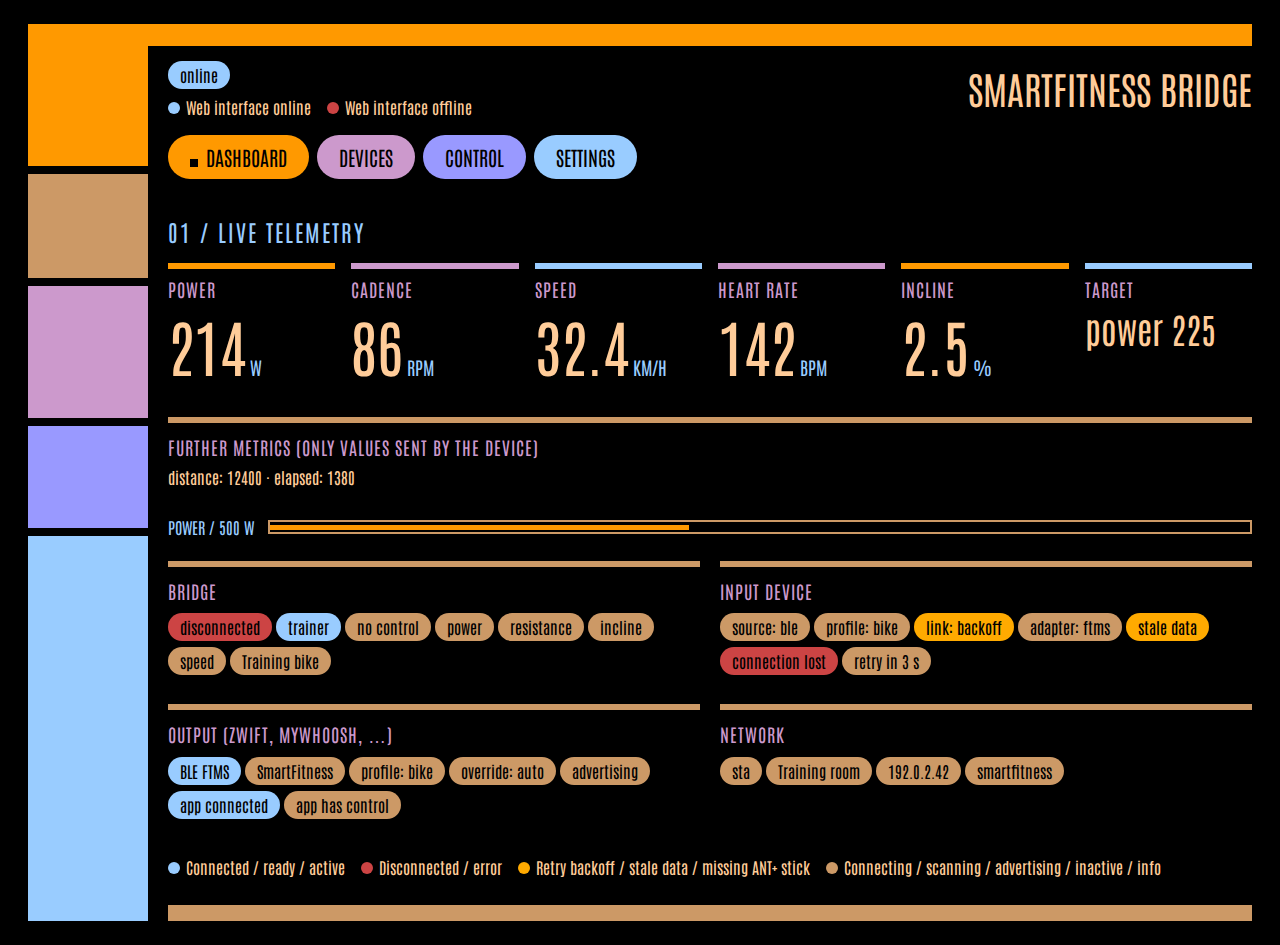
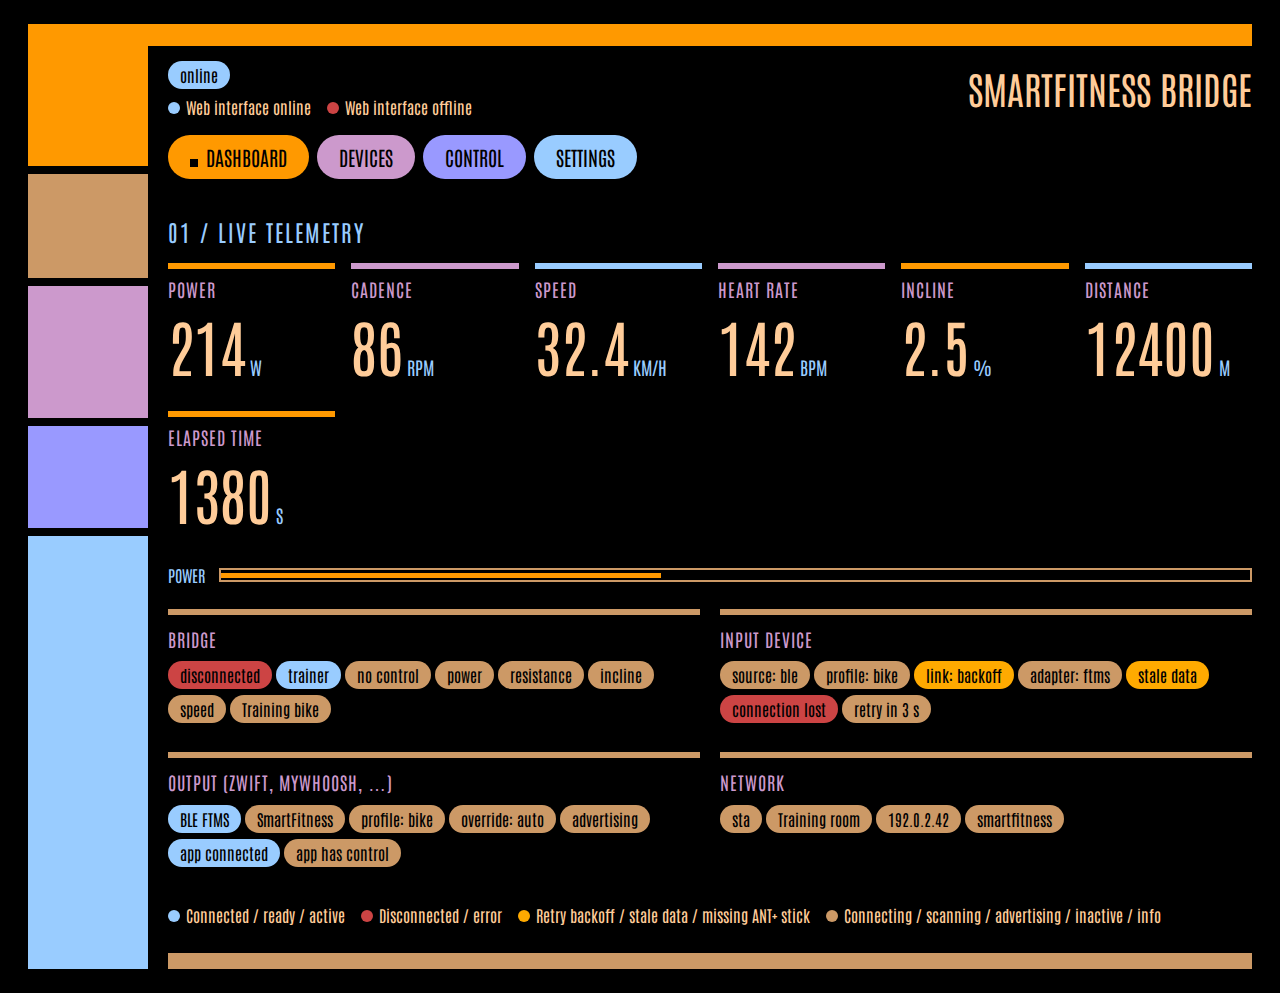
Show only available telemetry

Changed region(s): [[0.0, 0.0307, 1.0, 0.982]]

diff --git a/src/variants/web/assets/index.html b/src/variants/web/assets/index.html
@@ -18,9 +18,9 @@ nav button:nth-child(2){background:var(--muted)}nav button:nth-child(3){backgrou
 nav button.active{background:var(--acc)}nav button[aria-selected="true"]:before{content:"";display:inline-block;width:8px;height:8px;background:#000;margin-right:8px}
 main{max-width:1120px;margin:auto;border-bottom:16px solid var(--tan);padding-bottom:12px}
 section{display:none}section.active{display:block}section h2{margin:0 0 16px;font-size:23px;font-weight:400;letter-spacing:2px;text-transform:uppercase;color:var(--light)}
-.grid{display:grid;grid-template-columns:repeat(6,minmax(0,1fr));gap:16px;margin-bottom:22px}.status-grid{display:grid;grid-template-columns:repeat(2,minmax(0,1fr));gap:0 20px}
+.grid{display:grid;grid-template-columns:repeat(auto-fit,minmax(150px,1fr));gap:16px;margin-bottom:22px}.status-grid{display:grid;grid-template-columns:repeat(2,minmax(0,1fr));gap:0 20px}
 .card{background:#000;border-top:6px solid var(--tan);padding:12px 0;margin-bottom:14px;min-width:0}.metric{border-color:var(--acc);margin:0;padding-top:8px}.metric:nth-child(2n){border-color:var(--muted)}.metric:nth-child(3n){border-color:var(--light)}
-.metric .v{font-size:62px;line-height:1.2;font-weight:400;color:var(--fg)}.metric .u{color:var(--light);font-size:18px;text-transform:uppercase}.metric:last-child .v{font-size:35px}
+.metric .v{font-size:62px;line-height:1.2;font-weight:400;color:var(--fg)}.metric .u{color:var(--light);font-size:18px;text-transform:uppercase}
 .label{color:var(--muted);font-size:18px;text-transform:uppercase;letter-spacing:1px;margin-bottom:6px}
 .pill{display:inline-block;padding:3px 12px;border-radius:18px;background:var(--tan);color:#000;font-size:16px;margin:3px 4px 3px 0;overflow-wrap:anywhere}
 .pill.ok{background:var(--ok);color:#000}.pill.bad{background:var(--bad);color:#000}.pill.warn{background:var(--warn);color:#000}
@@ -45,9 +45,9 @@ td select{width:100%;font-size:16px}td button.b{padding:8px 14px}
 .gray{color:#888888}tr.gray td{color:#888888}tr.gray select,tr.gray button.b{opacity:.8}
 .status-legend{display:flex;flex-wrap:wrap;gap:6px 16px;list-style:none;padding:0;margin:8px 0 14px;font-size:16px}.status-legend li{display:flex;align-items:center;gap:6px}.status-legend .legend-swatch{display:inline-block;flex-shrink:0;width:12px;height:12px;padding:0;margin:0;border-radius:50%}.legend-swatch.gray{background:currentColor}.connection-status .status-legend{margin:4px 0 0}
 #ctl-result:not(:empty){display:inline-block;margin-top:10px;padding:6px 16px;border-radius:20px;background:var(--ok);color:#000}#ctl-result.bad{background:var(--bad)}
-.gauge{display:flex;align-items:center;gap:14px;margin:16px 0 22px;color:var(--light);text-transform:uppercase;font-size:16px}.gauge meter{flex:1;width:100%;height:14px;appearance:none;background:#000;border:2px solid var(--tan)}meter::-webkit-meter-bar{background:#000;border:0;border-radius:0}meter::-webkit-meter-optimum-value{background:var(--acc)}meter::-moz-meter-bar{background:var(--acc)}
-@media(max-width:1000px){.grid{grid-template-columns:repeat(3,minmax(0,1fr))}.status-grid{grid-template-columns:1fr}}
-@media(max-width:650px){body{padding:14px 14px 20px 36px;font-size:17px}.lcars-rail{left:14px;top:14px;bottom:14px;width:12px}header{border-top-width:14px;gap:8px;margin-bottom:18px;padding:10px 0}header:before{height:14px;top:-14px;width:10px;left:-10px}header h1{font-size:27px}header #conn{font-size:14px;padding:3px 9px}nav{gap:5px}nav button{flex:1;padding:7px 3px;font-size:16px;min-width:0}nav button[aria-selected="true"]:before{display:none}.grid{grid-template-columns:repeat(2,minmax(0,1fr));gap:12px}.metric .v{font-size:49px}.metric:last-child .v{font-size:28px}.label{font-size:16px}.pill{font-size:15px;padding:4px 10px}.row{gap:8px}.row label{min-width:0;flex-basis:100%}.row input:not([type="checkbox"]),.row select{width:100%}.card{padding-top:10px}table,tbody,tr,td{display:block}thead{display:none}tr{border-bottom:6px solid var(--muted);padding:12px 0}td{border:0;padding:4px 0}td[data-label]:before{content:attr(data-label) ": ";color:var(--muted)}td select{width:100%}#ctl-value{flex:1;width:auto;max-width:210px}.gauge{gap:8px;font-size:14px}section h2{font-size:20px;margin-bottom:12px}}
+.gauge{display:flex;align-items:center;gap:14px;margin:16px 0 22px;color:var(--light);text-transform:uppercase;font-size:16px}.gauge[hidden]{display:none}.gauge meter{flex:1;width:100%;height:14px;appearance:none;background:#000;border:2px solid var(--tan)}meter::-webkit-meter-bar{background:#000;border:0;border-radius:0}meter::-webkit-meter-optimum-value{background:var(--acc)}meter::-moz-meter-bar{background:var(--acc)}
+@media(max-width:1000px){.status-grid{grid-template-columns:1fr}}
+@media(max-width:650px){body{padding:14px 14px 20px 36px;font-size:17px}.lcars-rail{left:14px;top:14px;bottom:14px;width:12px}header{border-top-width:14px;gap:8px;margin-bottom:18px;padding:10px 0}header:before{height:14px;top:-14px;width:10px;left:-10px}header h1{font-size:27px}header #conn{font-size:14px;padding:3px 9px}nav{gap:5px}nav button{flex:1;padding:7px 3px;font-size:16px;min-width:0}nav button[aria-selected="true"]:before{display:none}.grid{grid-template-columns:repeat(auto-fit,minmax(130px,1fr));gap:12px}.metric .v{font-size:49px}.label{font-size:16px}.pill{font-size:15px;padding:4px 10px}.row{gap:8px}.row label{min-width:0;flex-basis:100%}.row input:not([type="checkbox"]),.row select{width:100%}.card{padding-top:10px}table,tbody,tr,td{display:block}thead{display:none}tr{border-bottom:6px solid var(--muted);padding:12px 0}td{border:0;padding:4px 0}td[data-label]:before{content:attr(data-label) ": ";color:var(--muted)}td select{width:100%}#ctl-value{flex:1;width:auto;max-width:210px}.gauge{gap:8px;font-size:14px}section h2{font-size:20px;margin-bottom:12px}}
 @media(prefers-reduced-motion:reduce){*,*:before,*:after{animation:none!important;transition:none!important;scroll-behavior:auto!important}}
 /* #ifdef DEBUG_WEB */
 #debug-output{display:block;width:100%;height:55vh;resize:vertical;background:var(--bg);color:var(--fg);border:2px solid var(--violet);padding:12px;font:14px/1.4 monospace;white-space:pre}
@@ -69,16 +69,8 @@ td select{width:100%;font-size:16px}td button.b{padding:8px 14px}
 <main>
 <section id="dash" class="active" role="tabpanel" aria-labelledby="tab-dash" tabindex="0">
  <h2>01 / Live telemetry</h2>
- <div class="grid">
-  <div class="card metric"><div class="label">Power</div><span class="v" id="m-power">–</span> <span class="u">W</span></div>
-  <div class="card metric"><div class="label">Cadence</div><span class="v" id="m-cadence">–</span> <span class="u">rpm</span></div>
-  <div class="card metric"><div class="label">Speed</div><span class="v" id="m-speed">–</span> <span class="u">km/h</span></div>
-  <div class="card metric"><div class="label">Heart rate</div><span class="v" id="m-heartRate">–</span> <span class="u">bpm</span></div>
-  <div class="card metric"><div class="label">Incline</div><span class="v" id="m-incline">–</span> <span class="u">%</span></div>
-  <div class="card metric"><div class="label">Target</div><span class="v" id="m-target">–</span></div>
- </div>
- <div class="card"><div class="label">Further metrics (only values sent by the device)</div><div id="m-extra" class="small">–</div></div>
- <div class="gauge"><label for="power-gauge">Power / 500 W</label><meter id="power-gauge" min="0" max="500" value="0">0 W</meter></div>
+ <div id="metrics" class="grid"></div><p id="metrics-empty" class="small" hidden>Waiting for device measurements.</p>
+ <div class="gauge" id="power-display" hidden><label for="power-gauge">Power</label><meter id="power-gauge" min="0" max="500" value="0">0 W</meter></div>
  <div class="status-grid">
  <div class="card"><div class="label">Bridge</div><div id="s-bridge"></div></div>
  <div class="card"><div class="label">Input device</div><div id="s-input"></div></div>
@@ -210,12 +202,22 @@ async function poll(id,n){ // fallback when the WebSocket result does not arrive
 function finish(res){const cb=pending[res.id];if(!cb)return;delete pending[res.id];cb(res)}
 async function run(endpoint,body,quiet){const r=await post(endpoint,body);if(r&&!quiet)toast(r.message,r.ok);return r}
 function fmt(v){return v===null||v===undefined?"–":(Math.round(v*10)/10).toString()}
+const metricNames={speed:"Speed",distance:"Distance",cadence:"Cadence",power:"Power",heartRate:"Heart rate",incline:"Incline",elapsed:"Elapsed time",resistance:"Resistance",averageSpeed:"Average speed",averageCadence:"Average cadence",averagePower:"Average power",totalEnergy:"Total energy",energyPerHour:"Energy per hour",energyPerMinute:"Energy per minute",metabolicEquivalent:"MET",remainingTime:"Remaining time",rampAngle:"Ramp angle",positiveElevationGain:"Elevation gain",negativeElevationGain:"Elevation loss",pace:"Pace",averagePace:"Average pace",strokeCount:"Strokes",stepCount:"Steps",strideCount:"Strides",floors:"Floors",forceOnBelt:"Belt force"};
+const metricUnits={speed:"km/h",distance:"m",cadence:"rpm",power:"W",heartRate:"bpm",incline:"%",elapsed:"s",resistance:"level",averageSpeed:"km/h",averageCadence:"rpm",averagePower:"W",totalEnergy:"kcal",energyPerHour:"kcal/h",energyPerMinute:"kcal/min",metabolicEquivalent:"MET",remainingTime:"s",rampAngle:"°",positiveElevationGain:"m",negativeElevationGain:"m",pace:"s/500m",averagePace:"s/500m",strokeCount:"strokes",stepCount:"steps",strideCount:"strides",floors:"floors",forceOnBelt:"N"};
+function renderMetrics(telemetry){
+ const entries=Object.entries(telemetry||{}).filter(([,value])=>Number.isFinite(value));
+ fill($("metrics"),entries.map(([key,value])=>{
+  const card=el("div",null,"card metric"),valueNode=el("span",fmt(value),"v");
+  valueNode.id="m-"+key;card.append(el("div",metricNames[key]||key,"label"),valueNode);
+  if(metricUnits[key])card.append(" ",el("span",metricUnits[key],"u"));
+  return card;
+ }));
+ $("metrics-empty").hidden=entries.length>0;
+}
 function renderStatus(s){
  status=s;$("conn").textContent="online";$("conn").className="pill ok";
- for(const k of["power","cadence","speed","heartRate","incline"])$("m-"+k).textContent=fmt(s.telemetry&&s.telemetry[k]);
- const main=["power","cadence","speed","heartRate","incline"],extra=Object.entries(s.telemetry||{}).filter(([k,v])=>!main.includes(k)&&Number.isFinite(v)).map(([k,v])=>k+": "+fmt(v));$("m-extra").textContent=extra.length?extra.join(" · "):"–";
- const power=s.telemetry&&s.telemetry.power;$("power-gauge").value=Number.isFinite(power)?Math.max(0,Math.min(500,power)):0;$("power-gauge").textContent=fmt(power)+" W";
- $("m-target").textContent=s.target?s.target.control+" "+fmt(s.target.value):"–";
+ const telemetry=s.telemetry||{},power=telemetry.power;renderMetrics(telemetry);
+ $("power-display").hidden=!Number.isFinite(power);$("power-gauge").value=Number.isFinite(power)?Math.max(0,Math.min(500,power)):0;$("power-gauge").textContent=fmt(power)+" W";
  fill($("s-bridge"),[pill(s.state,["disconnected","error","fault"].includes(s.state)?"bad":"ok"),pill(s.trainer?"trainer":"no trainer",s.trainer?"ok":""),pill(s.canControl?"control ready":"no control",s.canControl?"ok":""),
   ...(s.controls||[]).map(c=>pill(c)),pill(s.deviceName||"no device")]);
  const i=s.input||{},items=[pill("source: "+i.source),pill("profile: "+(i.profile||"bike"))];

diff --git a/src/variants/hmi/hmi_model.cpp b/src/variants/hmi/hmi_model.cpp
@@ -98,6 +98,21 @@ std::vector<Metric> dashboardMetrics(MachineProfile profile) {
     }
 }
 
+std::vector<Metric> dashboardMetrics(MachineProfile profile, const StatusView& status) {
+    std::vector<Metric> metrics;
+    const auto addIfValid = [&metrics, &status](Metric metric) {
+        const auto& sample = status.metric(metric);
+        if (!sample.valid || !std::isfinite(sample.value) ||
+            std::find(metrics.begin(), metrics.end(), metric) != metrics.end())
+            return;
+        metrics.push_back(metric);
+    };
+    for (const auto metric : dashboardMetrics(profile)) addIfValid(metric);
+    for (std::size_t index = 0; index < static_cast<std::size_t>(Metric::Count); ++index)
+        addIfValid(static_cast<Metric>(index));
+    return metrics;
+}
+
 std::string formatValue(float value, int decimals) {
     if (!std::isfinite(value)) return "--";
     char buffer[24];
@@ -119,9 +134,28 @@ Metric MetricCycler::current(MachineProfile profile) const {
     return metrics.front();
 }
 
+Metric MetricCycler::current(const StatusView& status) const {
+    const auto metrics = dashboardMetrics(status.input.profile, status);
+    if (std::find(metrics.begin(), metrics.end(), metric_) != metrics.end()) return metric_;
+    return metrics.empty() ? Metric::Count : metrics.front();
+}
+
 void MetricCycler::step(MachineProfile profile, int detents) {
     const auto metrics = dashboardMetrics(profile);
     const Metric now = current(profile);
+    const auto count = static_cast<int>(metrics.size());
+    int index = static_cast<int>(std::find(metrics.begin(), metrics.end(), now) - metrics.begin());
+    index = ((index + detents) % count + count) % count;
+    metric_ = metrics[static_cast<std::size_t>(index)];
+}
+
+void MetricCycler::step(const StatusView& status, int detents) {
+    const auto metrics = dashboardMetrics(status.input.profile, status);
+    if (metrics.empty()) {
+        metric_ = Metric::Count;
+        return;
+    }
+    const Metric now = current(status);
     const auto count = static_cast<int>(metrics.size());
     int index = static_cast<int>(std::find(metrics.begin(), metrics.end(), now) - metrics.begin());
     index = ((index + detents) % count + count) % count;

diff --git a/scripts/web_screenshots.py b/scripts/web_screenshots.py
@@ -142,6 +142,8 @@ def render_before(browser, asset, output, name, width, height):
     context.route("**/*", route)
     page.goto(ORIGIN)
     expect(page.locator("#m-power")).to_have_text("214")
+    assert page.locator("#metrics .metric").count() == len(STATUS["telemetry"])
+    assert page.locator("#m-target").count() == 0
     expect(page.locator("#s-input .bad")).to_have_text("connection lost")
     expect(page.locator("#dash")).to_be_visible()
     assert page.evaluate("document.documentElement.scrollWidth <= window.innerWidth")
@@ -337,6 +339,20 @@ def render(browser, output, name, width, height):
     sockets[0].send(json.dumps(searching))
     expect(page.locator("#s-input .pending")).to_have_text("link: searching")
     check_view(page, "dash", width < 650)
+
+    reduced = json.loads(json.dumps(STATUS))
+    reduced["telemetry"] = {"cadence": 86}
+    sockets[0].send(json.dumps(reduced))
+    expect(page.locator("#metrics .metric")).to_have_count(1)
+    expect(page.locator("#m-cadence")).to_have_text("86")
+    assert page.locator("#m-power, #m-heartRate").count() == 0
+    empty = json.loads(json.dumps(STATUS))
+    empty["telemetry"] = {}
+    sockets[0].send(json.dumps(empty))
+    expect(page.locator("#metrics .metric")).to_have_count(0)
+    expect(page.locator("#metrics-empty")).to_be_visible()
+    sockets[0].send(json.dumps(STATUS))
+    expect(page.locator("#metrics .metric")).to_have_count(len(STATUS["telemetry"]))
 
     # Status failure rendering is driven by the real WebSocket status contract.
     sockets[0].send(json.dumps(failure_status()))

diff --git a/src/variants/web/web_json.cpp b/src/variants/web/web_json.cpp
@@ -30,17 +30,10 @@ std::string statusJson(const StatusView& status, const NetworkStatus& network) {
     document["version"] = status.version;
     document["state"] = runtimeStateName(status.state);
     JsonObject telemetry = document["telemetry"].to<JsonObject>();
-    addMetric(telemetry, "power", status, Metric::Power);
-    addMetric(telemetry, "cadence", status, Metric::Cadence);
-    addMetric(telemetry, "speed", status, Metric::Speed);
-    addMetric(telemetry, "heartRate", status, Metric::HeartRate);
-    addMetric(telemetry, "incline", status, Metric::Incline);
-    addMetric(telemetry, "distance", status, Metric::Distance);
-    addMetric(telemetry, "elapsed", status, Metric::ElapsedTime);
-    // Further FTMS metrics are only listed when the device actually sends them.
-    for (std::size_t index = static_cast<std::size_t>(Metric::Resistance); index < kMetricCount; ++index) {
+    for (std::size_t index = 0; index < kMetricCount; ++index) {
         const auto metric = static_cast<Metric>(index);
-        if (status.metric(metric).valid) addMetric(telemetry, metricKey(metric), status, metric);
+        const auto& sample = status.metric(metric);
+        if (sample.valid && std::isfinite(sample.value)) addMetric(telemetry, metricKey(metric), status, metric);
     }
     document["deviceName"] = status.deviceName;
     document["trainer"] = status.trainer;

diff --git a/tests/host/test_hmi_model.cpp b/tests/host/test_hmi_model.cpp
@@ -77,6 +77,23 @@ void testMetrics() {
     assert(cycler.current(MachineProfile::IndoorBike) == Metric::Incline);  // wraps
     // A profile change keeps the selected metric when it exists there.
     assert(cycler.current(MachineProfile::Treadmill) == Metric::Incline);
+
+    StatusView available;
+    assert(dashboardMetrics(MachineProfile::IndoorBike, available).empty());
+    assert(cycler.current(available) == Metric::Count);
+    cycler.step(available, 1);
+    assert(cycler.current(available) == Metric::Count);
+    available.telemetry[static_cast<std::size_t>(Metric::HeartRate)] = {true, 120.0F};
+    available.telemetry[static_cast<std::size_t>(Metric::ForceOnBelt)] = {true, 30.0F};
+    const auto availableMetrics = dashboardMetrics(MachineProfile::IndoorBike, available);
+    assert((availableMetrics == std::vector<Metric>{Metric::HeartRate, Metric::ForceOnBelt}));
+    assert(cycler.current(available) == Metric::HeartRate);
+    cycler.step(available, 1);
+    assert(cycler.current(available) == Metric::ForceOnBelt);
+    available.telemetry[static_cast<std::size_t>(Metric::Power)] = {true, NAN};
+    assert(dashboardMetrics(MachineProfile::IndoorBike, available).size() == 2);
+    available.telemetry[static_cast<std::size_t>(Metric::HeartRate)].valid = false;
+    assert(cycler.current(available) == Metric::ForceOnBelt);
 }
 
 void testTargetEditor() {

diff --git a/src/variants/hmi/hmi_ui.cpp b/src/variants/hmi/hmi_ui.cpp
@@ -504,13 +504,26 @@ void HmiUi::buildDashboard() {
 }
 
 void HmiUi::cycleMetric(int detents) {
-    metric_.step(status_.input.profile, detents);
+    metric_.step(status_, detents);
     updateDashboard();
 }
 
 void HmiUi::updateDashboard() {
     if (!dash_.value) return;
-    const Metric metric = metric_.current(status_.input.profile);
+    const Metric metric = metric_.current(status_);
+    if (metric == Metric::Count) {
+        lv_label_set_text(dash_.name, lcars::uppercase(tr(Str::ServiceNoData)).c_str());
+        lv_label_set_text(dash_.value, "--");
+        lv_label_set_text(dash_.unit, "");
+        lcars::setGauge(dash_.segments, 0.0F);
+        lv_label_set_text(dash_.state, lcars::uppercase(tr(stateLabel(status_.state))).c_str());
+        lv_obj_set_style_bg_color(dash_.state, lv_color_hex(lcars::LightBlue), 0);
+        lv_obj_set_style_text_color(dash_.state, lv_color_black(), 0);
+        lv_label_set_text(dash_.target, lcars::uppercase(targetLabel(status_)).c_str());
+        const std::string info = outputServicesLabel(status_) + "\n" + outputLabel(status_);
+        lv_label_set_text(dash_.info, lcars::uppercase(info).c_str());
+        return;
+    }
     const MetricFormat& format = metricFormat(metric);
     const MetricView& sample = status_.metric(metric);
     lv_label_set_text(dash_.name, lcars::uppercase(tr(format.name)).c_str());

diff --git a/include/variants/hmi/hmi_model.h b/include/variants/hmi/hmi_model.h
@@ -34,6 +34,9 @@ struct MetricFormat {
 const MetricFormat& metricFormat(smartfitness::Metric metric);
 // Metrics offered on the dashboard gauge, most relevant first for the profile.
 std::vector<smartfitness::Metric> dashboardMetrics(smartfitness::MachineProfile profile);
+// Available dashboard metrics, ordered by profile preference then by metric.
+std::vector<smartfitness::Metric> dashboardMetrics(smartfitness::MachineProfile profile,
+                                                   const smartfitness::StatusView& status);
 // "123" / "8.5"; "--" when the sample is invalid.
 std::string formatValue(float value, int decimals);
 std::string formatMetric(const smartfitness::MetricView& sample, smartfitness::Metric metric);
@@ -43,7 +46,9 @@ std::string formatMetric(const smartfitness::MetricView& sample, smartfitness::M
 class MetricCycler {
 public:
     smartfitness::Metric current(smartfitness::MachineProfile profile) const;
+    smartfitness::Metric current(const smartfitness::StatusView& status) const;
     void step(smartfitness::MachineProfile profile, int detents);
+    void step(const smartfitness::StatusView& status, int detents);
 
 private:
     smartfitness::Metric metric_ = smartfitness::Metric::Count;  // Count: first of the profile

diff --git a/tests/host/test_web.cpp b/tests/host/test_web.cpp
@@ -307,7 +307,7 @@ void testOutputProfiles() {
     assert(status["input"]["profile"] == "bike");
     assert(status["ftmsOutput"]["profile"] == "bike");
     assert(status["ftmsOutput"]["override"] == "auto");
-    assert(status["telemetry"]["elapsed"].isNull());
+    assert(rig.statusJson().find("\"elapsed\"") == std::string::npos);
     assert(contains(rig.ui.handleCommand("help"), "ftms-profile"));
     for (const std::string value : {"auto", "bike", "treadmill", "cross-trainer", "rower"}) {
         Command command;
@@ -382,6 +382,7 @@ void testOutputProfiles() {
         status = parse(rig.statusJson());
         assert(status["input"]["profile"].as<std::string>() == machineProfileName(profile));
         assert(status["telemetry"]["elapsed"] == 321);
+        assert(status["telemetry"].as<JsonObjectConst>().size() == 1);
         assert(status["ftmsOutput"]["profile"].as<std::string>() ==
                machineProfileName(effectiveOutputProfile(FtmsOutputProfile::Auto, profile)));
         assert(contains(rig.ui.status(), std::string("input-profile=") + machineProfileName(profile)));

diff --git a/sim/hmi_sim.cpp b/sim/hmi_sim.cpp
@@ -697,7 +697,7 @@ ConfigView configView() {
     return config;
 }
 
-// Every dashboard metric of every machine profile at its widest value.
+// Every available dashboard metric of every machine profile at its widest value.
 void checkDashboardMetrics() {
     g_ui.navigate(Screen::Dashboard);
     for (std::size_t p = 0; p < kMachineProfileCount; ++p) {
@@ -710,7 +710,7 @@ void checkDashboardMetrics() {
         }
         g_ui.setStatus(status);
         pump(100);
-        for (std::size_t i = 0; i < dashboardMetrics(status.input.profile).size(); ++i) {
+        for (std::size_t i = 0; i < dashboardMetrics(status.input.profile, status).size(); ++i) {
             turn(1);
             pump(50);
             const std::string name = "dashboard-" + std::to_string(p) + "-" + std::to_string(i);
